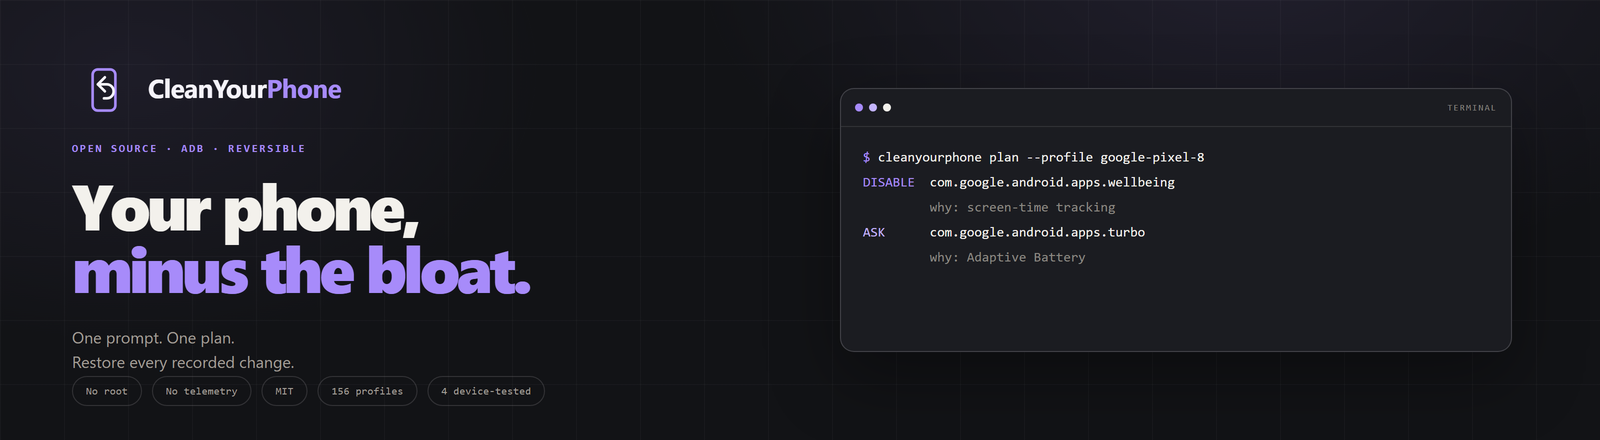
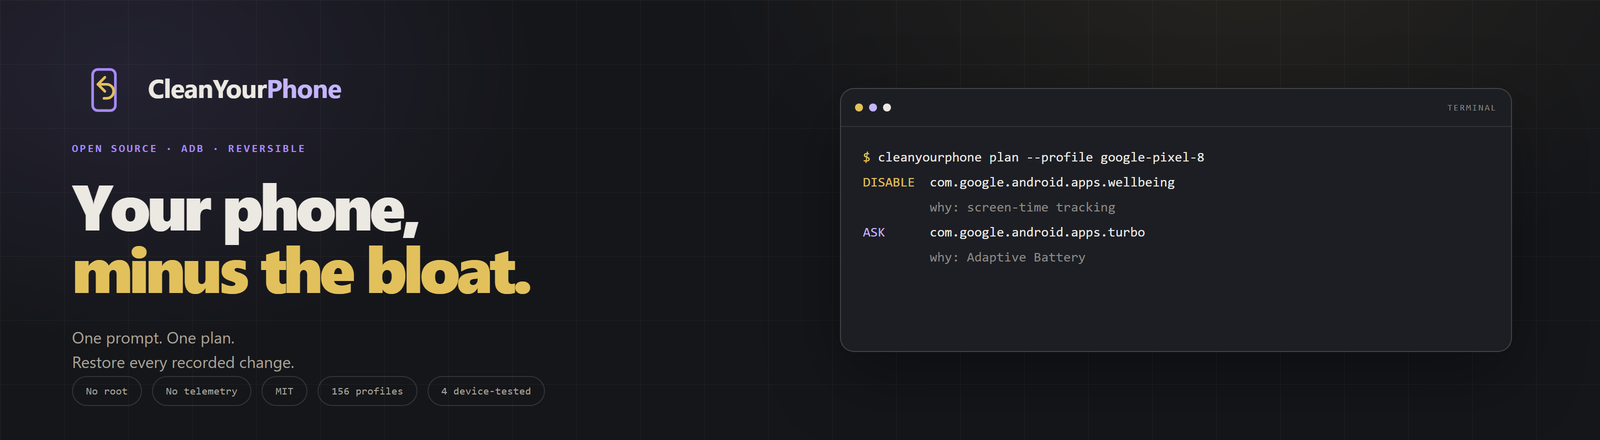
brand: align assets and docs with gold and lavender
Refresh the logo set, README badges, banner, social preview, and brand documentation for the final palette.

diff --git a/docs/BRAND.md b/docs/BRAND.md
@@ -46,13 +46,15 @@ never irreversible deletion.
 
 | Color | Role |
 |---|---|
-| Ink `#121316` | Primary background shared with CleanYourMail; icon tile and one-color mark on light surfaces. |
-| Purple `#A78BFA` | Phone, return gesture, primary actions, links, commands and the `Phone` wordmark. |
-| Light purple `#C4B5FD` | Only `ASK` and warning states; a tint, never a second brand color. |
-| Text `#F3F1EC` | Headlines and the `CleanYour` wordmark on the ink background. |
-| Muted `#A19E96` | Secondary text; never part of the essential symbol. |
-
-Purple and white/ink are the brand colors. The light purple is only a functional tint for `ASK`.
+| Ink `#15161A` | Primary background and icon tile. |
+| Panel `#1C1E24` | Cards and prompt block. |
+| Panel 2 `#23252D` | Raised panels and gradients. |
+| Text `#ECE9E2` | Headlines and the `CleanYour` wordmark. |
+| Muted `#A8A39B` | Secondary text; never part of the essential symbol. |
+| Gold `#E2C15C` | Primary actions, the return arrow and the main CTA. |
+| Lavender `#A78BFA` | Phone outline, links, commands and undo. |
+| Bright lavender `#C4B5FD` | The `Phone` wordmark only. |
+| Coral `#D97A5E` | Warning states only; never a decorative accent. |
 
 ## Typography
 
@@ -61,7 +63,7 @@ Purple and white/ink are the brand colors. The light purple is only a functional
 - **Mono:** `Cascadia Code`, `SFMono-Regular`, `Consolas`, `Liberation Mono`, monospace, for commands,
   package names, states and evidence.
 - The wordmark is always **CleanYourPhone**, with no spaces or alternate capitalization. In the color
-  version, **CleanYour** uses the text color and **Phone** uses the logo purple `#A78BFA`; the
+  version, **CleanYour** uses the text color and **Phone** uses bright lavender `#C4B5FD`; the
   monochrome lockup stays one color.
 
 ## Logo
@@ -76,12 +78,12 @@ from the previous mark is retired because it reads as generic "magic cleaner".
 |---|---|
 | `assets/logo.svg` | Primary app-icon tile, 64×64, dark background. |
 | `assets/favicon.svg` | Simplified 32×32 favicon. |
-| `assets/logo-mark.svg` | Mark-only, transparent, purple/white. |
+| `assets/logo-mark.svg` | Mark-only, transparent, lavender/gold. |
 | `assets/logo-mono.svg` | One-color mark for light backgrounds. |
 | `assets/logo-lockup.svg` | Horizontal mark + wordmark for dark backgrounds. |
 | `assets/logo-lockup-mono.svg` | Horizontal mark + wordmark for light backgrounds. |
 
-The same files exist in `cleanyourphone-web/assets/` for the website.
+The website uses `logo.svg` and `favicon.svg`; the full set remains in the skill repository.
 
 ### Clear space and minimum sizes
 
@@ -92,8 +94,8 @@ The same files exist in `cleanyourphone-web/assets/` for the website.
 
 ### Color use
 
-- Dark backgrounds: primary tile or the purple/white mark.
-- Light backgrounds: the monochrome `#121316` mark or mono lockup. Do not put the purple/white mark on
+- Dark backgrounds: primary tile or the lavender/gold mark.
+- Light backgrounds: the monochrome `#15161A` mark or mono lockup. Do not put the lavender/gold mark on
   white or busy imagery.
 - Do not use color as the only state indicator in UI; pair it with a label.
 

diff --git a/README.es.md b/README.es.md
@@ -19,11 +19,11 @@
 
 <p align="center">
   <a href="https://github.com/jparedesDS/cleanyourphone/actions/workflows/ci.yml"><img src="https://github.com/jparedesDS/cleanyourphone/actions/workflows/ci.yml/badge.svg" alt="CI"></a>
-  <img src="https://img.shields.io/badge/license-MIT-a78bfa?labelColor=121316" alt="MIT">
-  <img src="https://img.shields.io/badge/python-3.10%2B-a78bfa?labelColor=121316" alt="Python 3.10+">
-  <img src="https://img.shields.io/badge/telemetry-none-a78bfa?labelColor=121316" alt="Sin telemetría">
-  <img src="https://img.shields.io/badge/profiles-156-a78bfa?labelColor=121316" alt="156 perfiles">
-  <a href="https://github.com/jparedesDS/cleanyourphone/releases"><img src="https://img.shields.io/github/v/release/jparedesDS/cleanyourphone?color=a78bfa&labelColor=121316" alt="release"></a>
+  <img src="https://img.shields.io/badge/license-MIT-e2c15c?labelColor=15161a" alt="MIT">
+  <img src="https://img.shields.io/badge/python-3.10%2B-e2c15c?labelColor=15161a" alt="Python 3.10+">
+  <img src="https://img.shields.io/badge/telemetry-none-e2c15c?labelColor=15161a" alt="Sin telemetría">
+  <img src="https://img.shields.io/badge/profiles-156-e2c15c?labelColor=15161a" alt="156 perfiles">
+  <a href="https://github.com/jparedesDS/cleanyourphone/releases"><img src="https://img.shields.io/github/v/release/jparedesDS/cleanyourphone?color=e2c15c&labelColor=15161a" alt="release"></a>
 </p>
 
 # CleanYourPhone

diff --git a/README.md b/README.md
@@ -19,11 +19,11 @@
 
 <p align="center">
   <a href="https://github.com/jparedesDS/cleanyourphone/actions/workflows/ci.yml"><img src="https://github.com/jparedesDS/cleanyourphone/actions/workflows/ci.yml/badge.svg" alt="CI"></a>
-  <img src="https://img.shields.io/badge/license-MIT-a78bfa?labelColor=121316" alt="MIT">
-  <img src="https://img.shields.io/badge/python-3.10%2B-a78bfa?labelColor=121316" alt="Python 3.10+">
-  <img src="https://img.shields.io/badge/telemetry-none-a78bfa?labelColor=121316" alt="No telemetry">
-  <img src="https://img.shields.io/badge/profiles-156-a78bfa?labelColor=121316" alt="156 profiles">
-  <a href="https://github.com/jparedesDS/cleanyourphone/releases"><img src="https://img.shields.io/github/v/release/jparedesDS/cleanyourphone?color=a78bfa&labelColor=121316" alt="release"></a>
+  <img src="https://img.shields.io/badge/license-MIT-e2c15c?labelColor=15161a" alt="MIT">
+  <img src="https://img.shields.io/badge/python-3.10%2B-e2c15c?labelColor=15161a" alt="Python 3.10+">
+  <img src="https://img.shields.io/badge/telemetry-none-e2c15c?labelColor=15161a" alt="No telemetry">
+  <img src="https://img.shields.io/badge/profiles-156-e2c15c?labelColor=15161a" alt="156 profiles">
+  <a href="https://github.com/jparedesDS/cleanyourphone/releases"><img src="https://img.shields.io/github/v/release/jparedesDS/cleanyourphone?color=e2c15c&labelColor=15161a" alt="release"></a>
 </p>
 
 # CleanYourPhone

diff --git a/CHANGELOG.md b/CHANGELOG.md
@@ -8,10 +8,11 @@ All notable changes to CleanYourPhone are documented here. The format is based o
 
 ### Changed
 
-- Final logo system and two-color palette: ink `#121316` shared with CleanYourMail, purple `#A78BFA`, white `#F3F1EC`
-  and a light purple `#C4B5FD` tint only for `ASK`. The sparkle is replaced by a contained return
-  arrow, and the wordmark tints **Phone** in the logo purple. Primary, mark-only, monochrome,
-  favicon and horizontal lockup assets are included. The brand rules are in `docs/BRAND.md`.
+- Final logo system and palette: ink `#15161A`, gold `#E2C15C` for primary actions and the return
+  arrow, lavender `#A78BFA` for the phone outline, links and undo, bright `#C4B5FD` for the `Phone`
+  wordmark, and coral `#D97A5E` for warnings. The sparkle is replaced by a contained return arrow,
+  with primary, mark-only, monochrome, favicon and horizontal lockup assets. The brand rules are in
+  `docs/BRAND.md`.
 
 ## [0.2.1] - 2026-11-02
 
